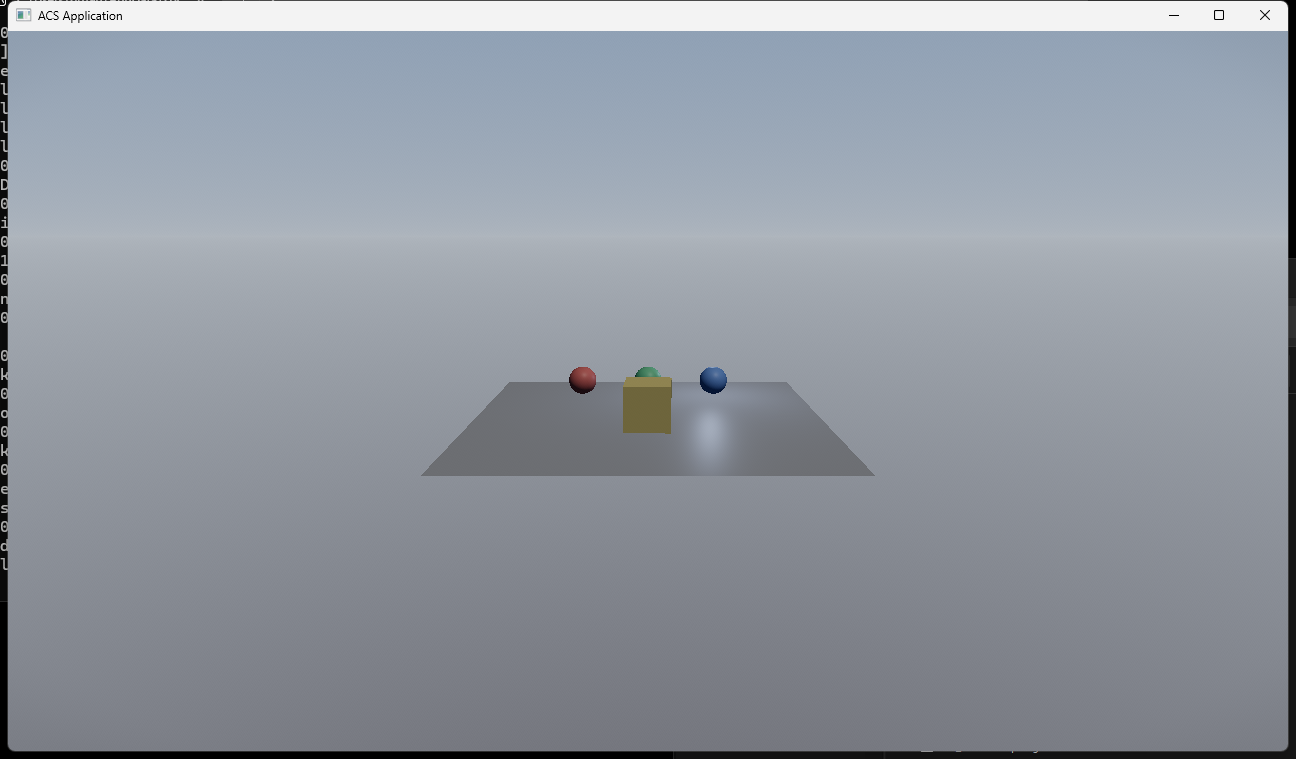
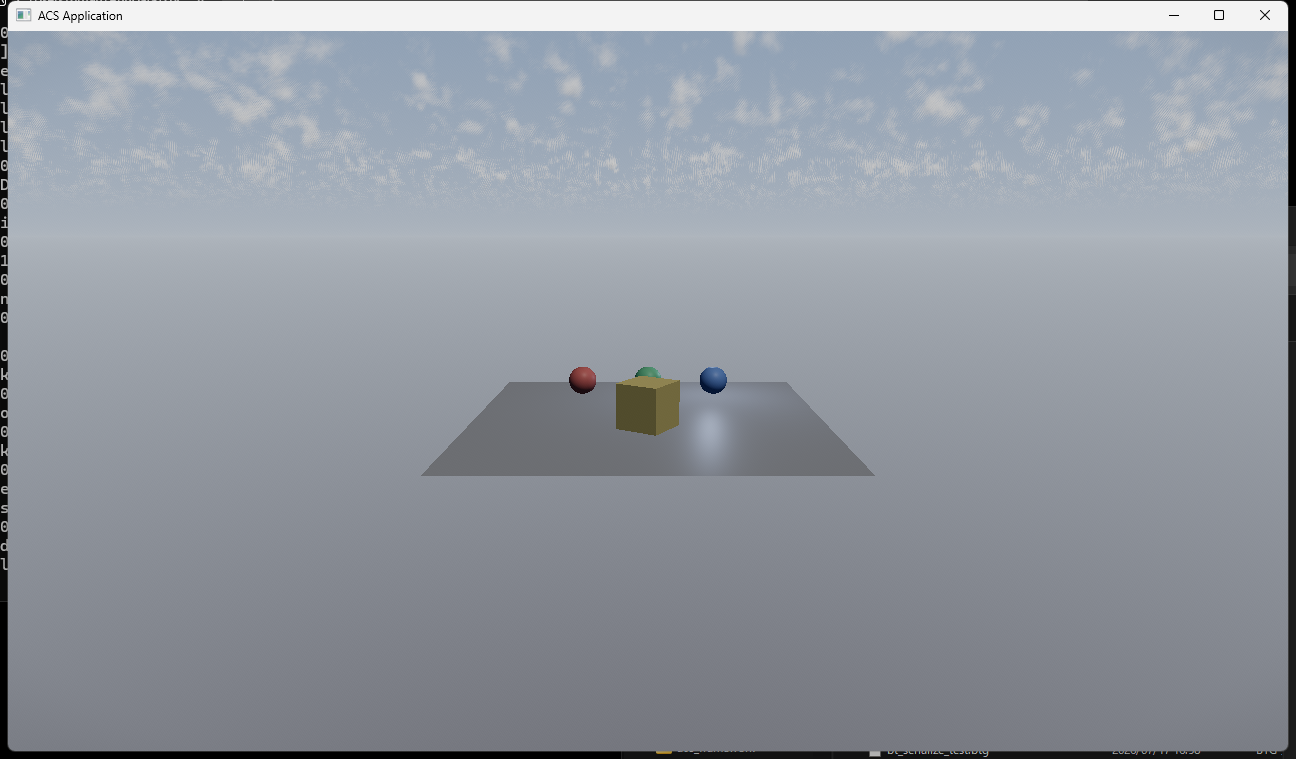
Show clouds, and tie the sky's sun to the light that lights the scene
空の太陽は OnEnter で一度きり設定され、その後は誰も動かしていなかった。ゲームが太陽を
動かしても空の太陽は置き去りで、«太陽が右にあるのに影が右へ伸びる» 画になる。
ACS 側で毎フレーム同期するようにした (acs_temp_doc/0007)。

- 空の太陽の向きと色を «いま物を照らしている光» へ合わせる
- 空に描く太陽の色は明るさではなく色味なので、最大成分を 1 に揃えてから渡す
  (光の色には強さが掛かっているため、そのままだと太陽が白く飛ぶ)
- Sky() を公開し、雲・地平の色・時刻を場面から触れるようにした
- デモで雲を出した (量 0.45 / 濃さ 1.5 / ゆっくり流す)

Docs/demo3d.png を更新。雲が出ていることを目視で確認した。

まだ出ていないもの: 影、物理ベースの大気 (CSkyAtmosphere は ACS に在るが未配線。
繋ぐには非同期 compile 状態機械への組み込みと bake 段が要るので、次に回した)。

Claude-Session: https://claude.ai/code/session_01QWWHaYrgcmNEqsp8SUqeVs

diff --git a/Source/AcsFramework_Sample/Scene/Demo3DScene.cpp b/Source/AcsFramework_Sample/Scene/Demo3DScene.cpp
@@ -79,6 +79,13 @@ void ADemo3DScene::OnEnter() noexcept
 	Fill.SetRange( 14.0f );
 	Root().AddChild( Move( FillNode ) );
 
+	// 空。雲を出し、時間で流す。太陽の向きと色は上で置いた光から毎フレーム同期されるので、
+	// ここでは触らない (触っても上書きされる)。
+	Sky().SetCloudsEnabled( true );
+	Sky().SetClouds( 0.45f, 1.5f );
+	Sky().SetCloudColor( FVec3{ 1.0f, 0.98f, 0.95f } );
+	Sky().SetCloudWind( 0.015f );
+
 	// 全体が入る位置までカメラを引く。
 	FrameScene();
 }

diff --git a/Docs/ROADMAP.md b/Docs/ROADMAP.md
@@ -81,7 +81,9 @@ Steam (`SteamworksBridge`)、スクリプト (`ScriptHost`)、機械学習 (`MlR
 
 ![3D デモ](demo3d.png)
 
-出ていないもの: **影**。次はそこ。
+空・雲・太陽は繋がっている (太陽は «物を照らしている光» と同じものを使う)。
+
+出ていないもの: **影**と、物理ベースの大気 (`CSkyAtmosphere` は ACS に在るが未配線)。次はそこ。
 
 - 3D シーンの窓口 — モデルを置く / 動かす / 消す
 - ~~カメラ~~ → **ACS 側へ実装済み** (`FCamera3D`、`acs_temp_doc/0004`)。
